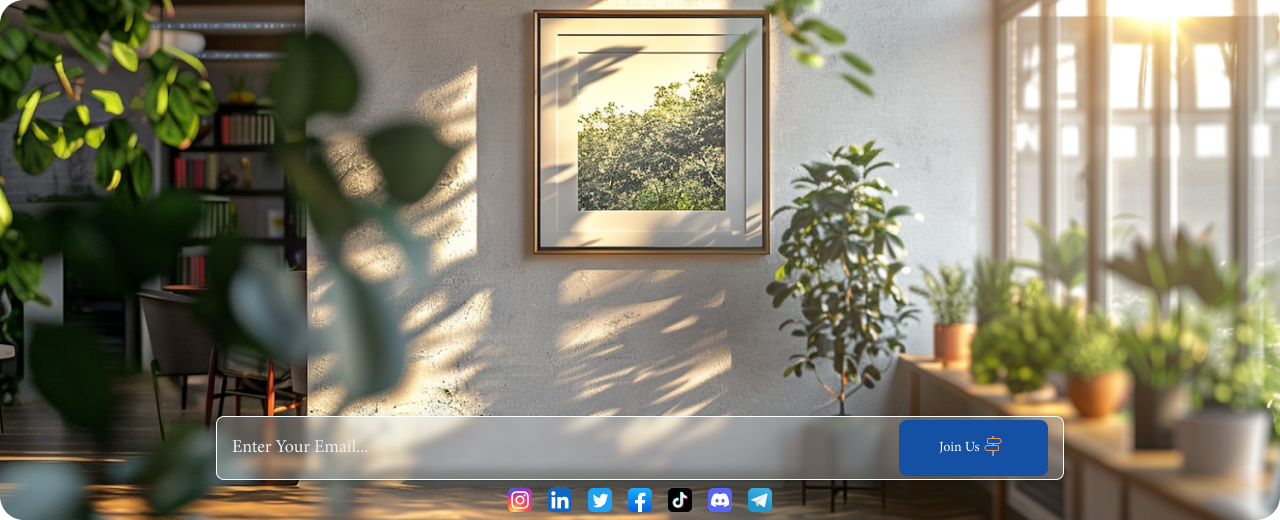
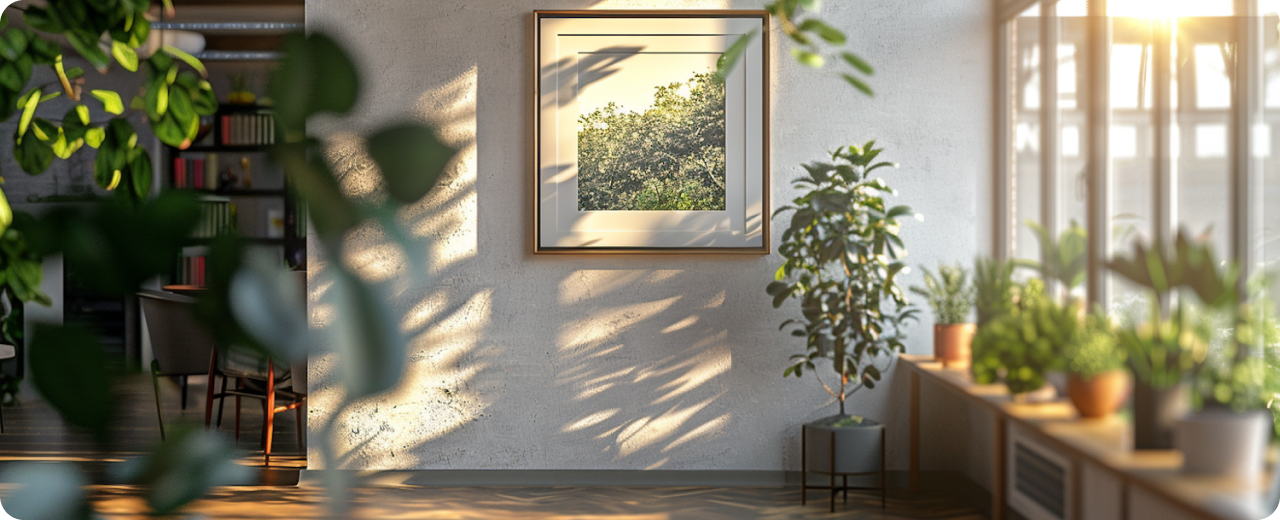
footer bg added and some animation added to raamona info on scroll event

Changed region(s): [[0.1562, 0.8, 0.8438, 0.9846]]

diff --git a/src/components/homeComponents/RaamonaInfo/index.jsx b/src/components/homeComponents/RaamonaInfo/index.jsx
@@ -1,29 +1,55 @@
 import InfoSection from "../InfoSection"
 import infoPic1 from '../../../../public/images/info/1.png'
 import infoPic2 from '../../../../public/images/info/2.png'
+import { useEffect, useState } from "react"
 
 const RaamonaInfo = () => {
+
+    const [show, setShow] = useState(false)
+
+    function handleScroll(e) {
+
+        if (window.scrollY > 1200) {
+            setShow(true)
+        } else {
+            setShow(false)
+        }
+    }
+    useEffect(() => {
+        window.addEventListener('scroll', handleScroll)
+
+        return () => window.removeEventListener('scroll', handleScroll);
+    }, [])
     return (
         <>
-            <section className="py-8 px-20">
-                <div>
+            <section className="py-8 px-20 overflow-hidden">
+                {scroll} {show}
+                <div className={`${show ? `translate-y-0` : `translate-y-52`} transition-all duration-1000`}>
                     <h3 className="text-5xl font-extrabold`">How Does Work Raamona?</h3>
                     <p className="text-justify">
                         aenean pharetra magna ac placerat vestibulum lectus mauris ultrices eros in cursus turpis massa tincidunt dui ut ornare lectus sit amet est placerat in egestas erat imperdiet sed euismod nisi porta lorem mollis aliquam ut porttitor leo a diam sollicitudin tempor id eu nisl nunc mi ipsum faucibus vitae aliquet nec ullamcorper sit amet risus nullam eget felis eget nunc lobortis mattis aliquam faucibus purus in massa tempor nec feugiat nisl pretium fusce id velit ut tortor pretium viverra suspendisse potenti nullam ac tortor vitae purus faucibus ornare suspendisse sed nisi lacus sed viverra tellus in hac habitasse platea dictumst
                     </p>
                 </div>
-                <InfoSection title={'What Is Art Therapy?'} details={'aenean pharetra magna ac placerat vestibulum lectus mauris ultrices eros in cursus turpis massa tincidunt dui ut ornare lectus sit amet est placerat in egestas erat imperdiet sed euismod nisi porta lorem mollis aliquam ut porttitor leo a diam sollicitudin tempor id eu nisl nunc mi ipsum faucibus vitae aliquet nec ullamcorper sit amet risus nullam eget felis eget nunc lobortis mattis aliquam faucibus purus in massa tempor nec feugiat nisl pretium fusce id velit ut tortor pretium viverra suspendisse potenti nullam ac tortor vitae purus faucibus ornare suspendisse sed nisi lacus sed viverra tellus in hac habitasse platea dictumst'} pic={infoPic1} />
+                <InfoSection
+                    imageMotion={`${show ? 'translate-x-0' : '-translate-x-52'} transition-all duration-1000`}
+                    style={`${show ? 'translate-x-0' : 'translate-x-52'} transition-all duration-1000`}
+                    title={'What Is Art Therapy?'}
+                    details={'aenean pharetra magna ac placerat vestibulum lectus mauris ultrices eros in cursus turpis massa tincidunt dui ut ornare lectus sit amet est placerat in egestas erat imperdiet sed euismod nisi porta lorem mollis aliquam ut porttitor leo a diam sollicitudin tempor id eu nisl nunc mi ipsum faucibus vitae aliquet nec ullamcorper sit amet risus nullam eget felis eget nunc lobortis mattis aliquam faucibus purus in massa tempor nec feugiat nisl pretium fusce id velit ut tortor pretium viverra suspendisse potenti nullam ac tortor vitae purus faucibus ornare suspendisse sed nisi lacus sed viverra tellus in hac habitasse platea dictumst'} pic={infoPic1} />
 
-                <InfoSection title={'About Users'} details={'aenean pharetra magna ac placerat vestibulum lectus mauris ultrices eros in cursus turpis massa tincidunt dui ut ornare lectus sit amet est placerat in egestas erat imperdiet sed euismod nisi porta lorem mollis aliquam ut porttitor leo a diam sollicitudin tempor id eu nisl nunc mi ipsum faucibus vitae aliquet nec ullamcorper sit amet risus nullam eget felis eget nunc lobortis mattis aliquam faucibus purus in massa tempor nec feugiat nisl pretium fusce id velit ut tortor pretium viverra suspendisse potenti nullam ac tortor vitae purus faucibus ornare suspendisse sed nisi lacus sed viverra tellus in hac habitasse platea dictumst'} pic={infoPic2} usersDetail={<>
-                    <h5 className="text-end">+400 k</h5>
-                    <h6 className="text-end">Other Users</h6>
-                    <h5 className="text-end">+200 k</h5>
-                    <h6 className="text-end">Therapist Users</h6>
-                    <h5 className="text-end">+100 k</h5>
-                    <h6 className="text-end">Artist Users</h6>
-                    <h5 className="text-end">+100 k</h5>
-                    <h6 className="text-end">Treated Users</h6>
-                </>} />
+                <InfoSection
+                    imageMotion={`${show ? 'translate-x-0 translate-y-0' : '!-translate-x-52'} transition-all duration-1000`}
+                    style={`${show ? 'translate-x-0 translate-y-0' : 'translate-x-52'} transition-all duration-1000`}
+                    title={'About Users'}
+                    details={'aenean pharetra magna ac placerat vestibulum lectus mauris ultrices eros in cursus turpis massa tincidunt dui ut ornare lectus sit amet est placerat in egestas erat imperdiet sed euismod nisi porta lorem mollis aliquam ut porttitor leo a diam sollicitudin tempor id eu nisl nunc mi ipsum faucibus vitae aliquet nec ullamcorper sit amet risus nullam eget felis eget nunc lobortis mattis aliquam faucibus purus in massa tempor nec feugiat nisl pretium fusce id velit ut tortor pretium viverra suspendisse potenti nullam ac tortor vitae purus faucibus ornare suspendisse sed nisi lacus sed viverra tellus in hac habitasse platea dictumst'} pic={infoPic2} usersDetail={<>
+                        <h5 className="text-end">+400 k</h5>
+                        <h6 className="text-end">Other Users</h6>
+                        <h5 className="text-end">+200 k</h5>
+                        <h6 className="text-end">Therapist Users</h6>
+                        <h5 className="text-end">+100 k</h5>
+                        <h6 className="text-end">Artist Users</h6>
+                        <h5 className="text-end">+100 k</h5>
+                        <h6 className="text-end">Treated Users</h6>
+                    </>} />
             </section>
         </>
     )

diff --git a/src/components/homeComponents/Tabs/index.jsx b/src/components/homeComponents/Tabs/index.jsx
@@ -75,7 +75,7 @@ const Tabs = () => {
                 </div> */}
                 <div className="w-full flex gap-5 py-5 overflow-hidden">
                     <div ref={scrollRef} className=" w-screen flex animate-infinite-reverse-scroll gap-5 h-full flex-nowrap items-center justify-center">
-                        {pics1Array.div.map((item, index) => (
+                        {!isLoad && pics1Array.div.map((item, index) => (
                             <>
                                 <PictureContainer key={index} item={item} />
                             </>
@@ -84,7 +84,7 @@ const Tabs = () => {
                 </div>
                 <div className="w-full flex gap-5 py-5 overflow-hidden">
                     <div ref={scrollRef} className=" w-screen flex animate-infinite-scroll gap-5 h-full flex-nowrap items-center justify-center">
-                        {pics1Array.div1.map((item, index) => (
+                        {!isLoad && pics1Array.div1.map((item, index) => (
                             <>
                                 <PictureContainer key={index} item={item} />
                             </>
@@ -93,7 +93,7 @@ const Tabs = () => {
                 </div>
                 <div className="w-full flex gap-5 py-5 overflow-hidden">
                     <div ref={scrollRef} className=" w-screen flex animate-infinite-reverse-scroll gap-5 h-full flex-nowrap items-center justify-center">
-                        {pics1Array.div1.map((item, index) => (
+                        {!isLoad && pics1Array.div1.map((item, index) => (
                             <>
                                 <PictureContainer key={index} item={item} />
                             </>

diff --git a/src/components/homeComponents/InfoSection/index.jsx b/src/components/homeComponents/InfoSection/index.jsx
@@ -1,20 +1,20 @@
 import Image from "next/image"
 
-const InfoSection = ({ title, details, pic, usersDetail }) => {
+const InfoSection = ({ title, details, pic, usersDetail, style, imageMotion }) => {
     return (
         <>
-            <div className="w-full flex justify-between items-center py-10">
+            <div className={`w-full flex justify-between items-center py-10 ${style}`}>
                 <div className="w-1/2 flex flex-col gap-5 py-14">
                     <h3 className="text-4xl">{title}</h3>
                     <p className="text-justify">
                         {details}
                     </p>
                 </div>
-                <div className="flex gap-5 justify-end items-center">
-                    <div className="flex flex-col gap-3">
+                <div className={`flex gap-5 justify-end items-center ${imageMotion}`}>
+                    <div className={`flex flex-col gap-3 ${imageMotion}`}>
                         {usersDetail}
                     </div>
-                    <Image src={pic} alt="raamona info" />
+                    <Image src={pic} alt="raamona info" className={`${imageMotion}`} />
                 </div>
             </div>
         </>

diff --git a/src/components/homeComponents/Footer/index.jsx b/src/components/homeComponents/Footer/index.jsx
@@ -23,12 +23,12 @@ const Footer = ({ isShow }) => {
             <footer className="w-full py-10 px-20">
                 {isShow &&
                     <>
-                        <section className="w-full rounded-2xl bg-amber-50 px-28 flex flex-col pt-20">
+                        <section className="w-full bg-footer h-full rounded-2xl bg-amber-50 px-28 flex flex-col pt-72 bg-cover">
                             <form className="w-full">
                                 <div className="w-full flex relative">
                                     <input type="text" className=" w-full p-3 rounded-md border backdrop-blur-3xl" placeholder="Enter Your Email..." />
                                     <Button
-                                        children={
+                                        text={
                                             <>
                                                 Join Us
                                                 <Image src={Join} alt="join raamona" />

diff --git a/tailwind.config.js b/tailwind.config.js
@@ -12,6 +12,7 @@ module.exports = {
         'slide2': 'url(/images/blog/State=Page-2.png)',
         'slide3': 'url(/images/blog/State=Page-3.png)',
         'about': 'url(/images/about/Frame126.png)',
+        'footer': 'url(/images/footer/FooterImage.png)'
       },
       colors: {
         'orange': '#FD9341',
